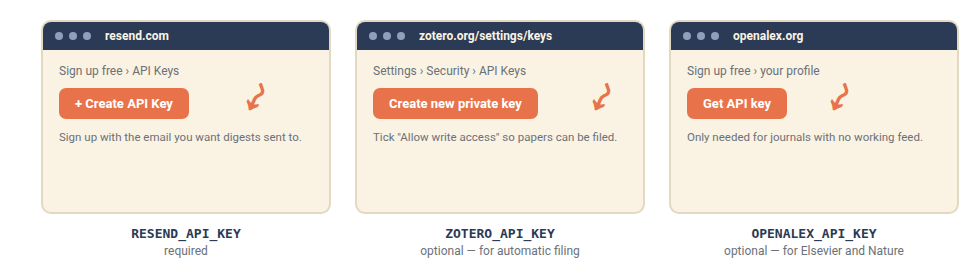
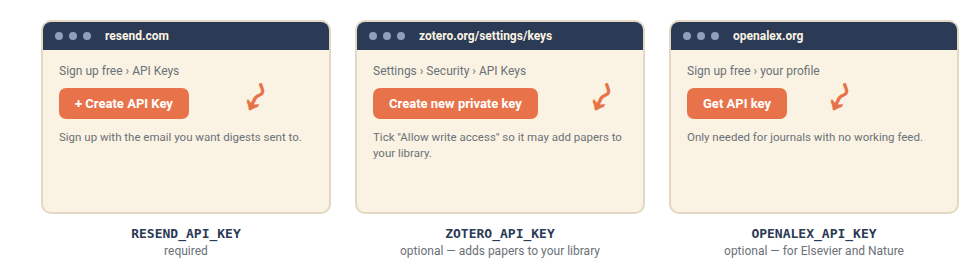
Say add papers to your library instead of filing

Changed region(s): [[0.4021, 0.8727, 0.6186, 0.9309], [0.5258, 0.4655, 0.6495, 0.5236], [0.3711, 0.5236, 0.4639, 0.5818]]

diff --git a/README.md b/README.md
@@ -152,7 +152,7 @@ variables) in the cloud. **Never commit them**.
 | Key | Where to get it | Needed for |
 | --- | --- | --- |
 | `RESEND_API_KEY` | free account at [resend.com](https://resend.com) | **the emailed digest.** Without a verified domain, send from `[email redacted]` (delivers only to your own Resend account email) |
-| `ZOTERO_API_KEY` | free at [zotero.org/settings/keys](https://www.zotero.org/settings/keys) (tick write access) | filing papers into your library. *Leave empty to skip Zotero and curate from the email* |
+| `ZOTERO_API_KEY` | free at [zotero.org/settings/keys](https://www.zotero.org/settings/keys) (tick write access) | adding papers to your Zotero library. *Leave empty to skip Zotero and curate from the email* |
 | `OPENALEX_API_KEY` | free from [openalex.org](https://openalex.org) | only if `config.yaml` lists `openalex_sources` (journals with no workable RSS) |
 | `ANTHROPIC_API_KEY` | [console.anthropic.com](https://console.anthropic.com) (pay per use) | only for running `screen.py` on your own computer. *The daily cloud run already includes Claude, so it never needs this* |
 